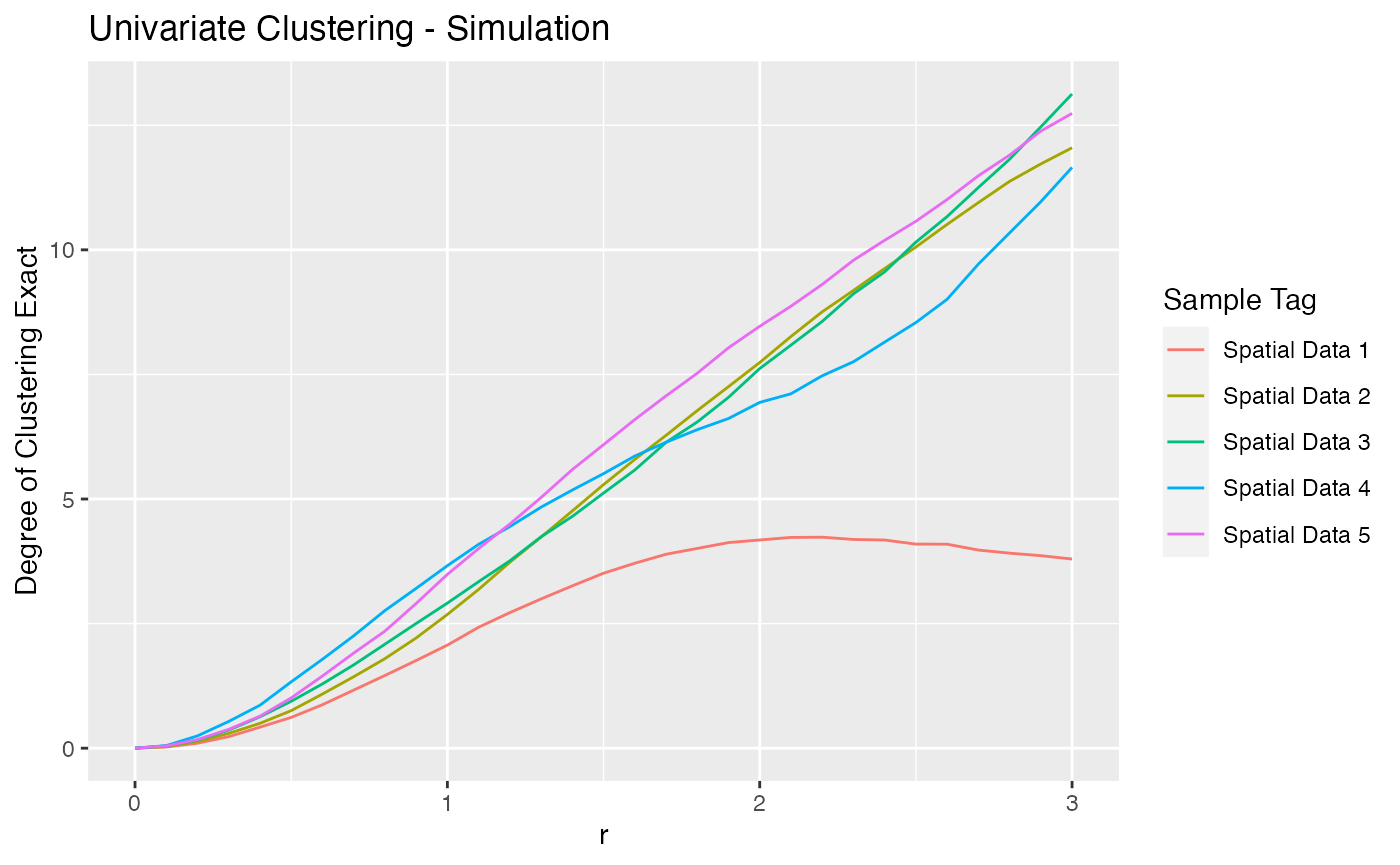
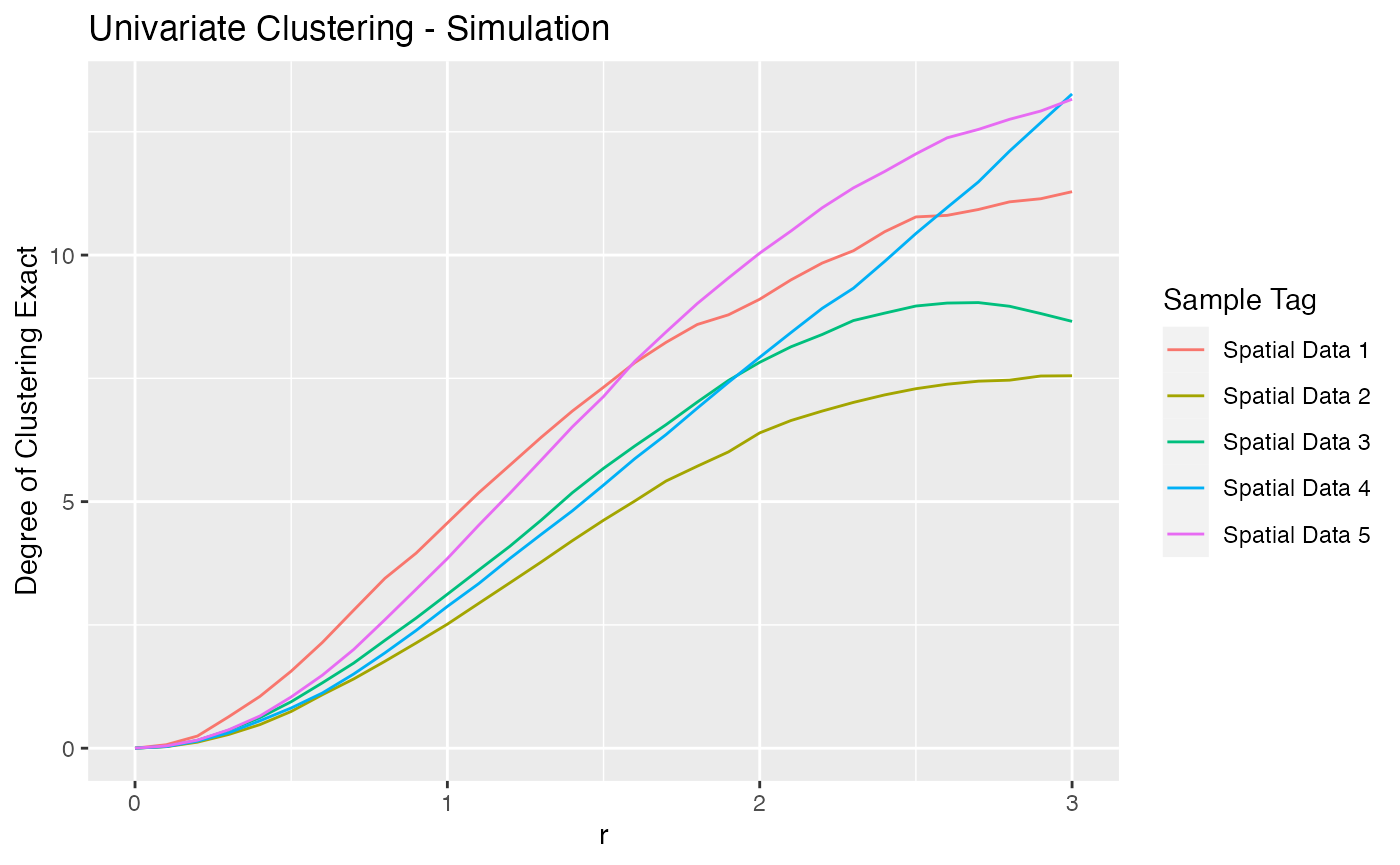
finished spatialTIME intro

diff --git a/docs/articles/a02_Using_with spatialTIME.html b/docs/articles/a02_Using_with spatialTIME.html
@@ -124,7 +124,7 @@ should be taken when using the observed Ripley’s <em>K</em> values.</p>
 <span>    <span class="co">#make tissues</span></span>
 <span><span class="va">sim_object</span> <span class="op">=</span> <span class="fu"><a href="../reference/GenerateTissue.html">GenerateTissue</a></span><span class="op">(</span><span class="va">sim_object</span>, density_heatmap <span class="op">=</span> <span class="cn">F</span><span class="op">)</span> <span class="op"><a href="../reference/pipe.html">%&gt;%</a></span></span>
 <span>    <span class="co">#create holes</span></span>
-<span>    <span class="fu"><a href="../reference/GenerateHoles.html">GenerateHoles</a></span><span class="op">(</span>density_heatmap <span class="op">=</span> <span class="cn">F</span><span class="op">)</span> <span class="op"><a href="../reference/pipe.html">%&gt;%</a></span></span>
+<span>    <span class="fu"><a href="../reference/GenerateHoles.html">GenerateHoles</a></span><span class="op">(</span>hole_prob <span class="op">=</span> <span class="fu"><a href="https://rdrr.io/r/base/c.html" class="external-link">c</a></span><span class="op">(</span><span class="fl">0.3</span>, <span class="fl">0.5</span><span class="op">)</span>, density_heatmap <span class="op">=</span> <span class="cn">F</span><span class="op">)</span> <span class="op"><a href="../reference/pipe.html">%&gt;%</a></span></span>
 <span>    <span class="co">#Create positive/negative cells</span></span>
 <span>    <span class="fu"><a href="../reference/GenerateCellPositivity.html">GenerateCellPositivity</a></span><span class="op">(</span>probs <span class="op">=</span> <span class="fu"><a href="https://rdrr.io/r/base/c.html" class="external-link">c</a></span><span class="op">(</span><span class="fl">0</span>, <span class="fl">0.9</span><span class="op">)</span><span class="op">)</span></span>
 <span><span class="co">#&gt; Computing tissue probability</span></span>
@@ -143,11 +143,11 @@ be split into a spatial list as well as a summary using
 <span><span class="co">#&gt; <span style="color: #949494;"># A tibble: 5 × 4</span></span></span>
 <span><span class="co">#&gt;   `Sample Tag`   `Total Cells` `Cell 1 Assignment` `% Cell 1 Assignment`</span></span>
 <span><span class="co">#&gt;   <span style="color: #949494; font-style: italic;">&lt;chr&gt;</span>                  <span style="color: #949494; font-style: italic;">&lt;int&gt;</span>               <span style="color: #949494; font-style: italic;">&lt;dbl&gt;</span>                 <span style="color: #949494; font-style: italic;">&lt;dbl&gt;</span></span></span>
-<span><span class="co">#&gt; <span style="color: #BCBCBC;">1</span> Spatial Data 1          <span style="text-decoration: underline;">2</span>495                 703                  28.2</span></span>
-<span><span class="co">#&gt; <span style="color: #BCBCBC;">2</span> Spatial Data 2          <span style="text-decoration: underline;">2</span>450                 684                  27.9</span></span>
-<span><span class="co">#&gt; <span style="color: #BCBCBC;">3</span> Spatial Data 3          <span style="text-decoration: underline;">2</span>500                 598                  23.9</span></span>
-<span><span class="co">#&gt; <span style="color: #BCBCBC;">4</span> Spatial Data 4          <span style="text-decoration: underline;">2</span>514                 426                  16.9</span></span>
-<span><span class="co">#&gt; <span style="color: #BCBCBC;">5</span> Spatial Data 5          <span style="text-decoration: underline;">2</span>486                 559                  22.5</span></span></code></pre></div>
+<span><span class="co">#&gt; <span style="color: #BCBCBC;">1</span> Spatial Data 1          <span style="text-decoration: underline;">2</span>495                 342                  13.7</span></span>
+<span><span class="co">#&gt; <span style="color: #BCBCBC;">2</span> Spatial Data 2          <span style="text-decoration: underline;">2</span>450                 624                  25.5</span></span>
+<span><span class="co">#&gt; <span style="color: #BCBCBC;">3</span> Spatial Data 3          <span style="text-decoration: underline;">2</span>500                 638                  25.5</span></span>
+<span><span class="co">#&gt; <span style="color: #BCBCBC;">4</span> Spatial Data 4          <span style="text-decoration: underline;">2</span>514                 622                  24.7</span></span>
+<span><span class="co">#&gt; <span style="color: #BCBCBC;">5</span> Spatial Data 5          <span style="text-decoration: underline;">2</span>486                 558                  22.4</span></span></code></pre></div>
 </div>
 <div class="section level3">
 <h3 id="using-with-spatialtime">Using with <code>spatialTIME</code><a class="anchor" aria-label="anchor" href="#using-with-spatialtime"></a>
@@ -209,6 +209,69 @@ units and visualize the results.</p>
 <span>  <span class="fu"><a href="https://ggplot2.tidyverse.org/reference/geom_path.html" class="external-link">geom_line</a></span><span class="op">(</span><span class="fu"><a href="https://ggplot2.tidyverse.org/reference/aes.html" class="external-link">aes</a></span><span class="op">(</span>x <span class="op">=</span> <span class="va">r</span>, y <span class="op">=</span> <span class="va">`Degree of Clustering Exact`</span>, color <span class="op">=</span> <span class="va">`Sample Tag`</span><span class="op">)</span><span class="op">)</span> <span class="op">+</span></span>
 <span>  <span class="fu"><a href="https://ggplot2.tidyverse.org/reference/labs.html" class="external-link">labs</a></span><span class="op">(</span>title <span class="op">=</span> <span class="st">"Univariate Clustering - Simulation"</span><span class="op">)</span></span></code></pre></div>
 <p><img src="a02_Using_with%20spatialTIME_files/figure-html/unnamed-chunk-8-1.png" width="700"></p>
+<p>Up until now, we have been using the all simulated cells. We can
+filter the spatial_list down to create another mIF object that doesn’t
+have the cells belonging to the class of “hole”
+(<code>Hole Assignment</code> == “Keep”). For now, sub-setting to only
+Tissue 1 or Tissue 2 will be left alone. Let’s create this mIF and run
+Ripley’s K on it.</p>
+<div class="sourceCode" id="cb11"><pre class="downlit sourceCode r">
+<code class="sourceCode R"><span><span class="va">mif_holes</span> <span class="op">=</span> <span class="fu"><a href="https://rdrr.io/pkg/spatialTIME/man/create_mif.html" class="external-link">create_mif</a></span><span class="op">(</span>clinical_data <span class="op">=</span> <span class="va">clinical</span>,</span>
+<span>                 sample_data <span class="op">=</span> <span class="va">summary_df</span>,</span>
+<span>                 spatial_list <span class="op">=</span> <span class="fu"><a href="https://rdrr.io/r/base/lapply.html" class="external-link">lapply</a></span><span class="op">(</span><span class="va">spatial_list</span>, <span class="kw">function</span><span class="op">(</span><span class="va">spat</span><span class="op">)</span><span class="op">{</span></span>
+<span>                   <span class="va">spat</span> <span class="op"><a href="../reference/pipe.html">%&gt;%</a></span></span>
+<span>                     <span class="fu">dplyr</span><span class="fu">::</span><span class="fu"><a href="https://dplyr.tidyverse.org/reference/filter.html" class="external-link">filter</a></span><span class="op">(</span><span class="va">`Hole Assignment`</span> <span class="op">==</span> <span class="st">"Keep"</span><span class="op">)</span></span>
+<span>                 <span class="op">}</span><span class="op">)</span>,</span>
+<span>                 patient_id <span class="op">=</span> <span class="st">"Patient ID"</span>,</span>
+<span>                 sample_id <span class="op">=</span> <span class="st">"Sample Tag"</span><span class="op">)</span></span>
+<span><span class="va">mif_holes</span> <span class="op">=</span> <span class="fu"><a href="https://rdrr.io/pkg/spatialTIME/man/ripleys_k.html" class="external-link">ripleys_k</a></span><span class="op">(</span>mif <span class="op">=</span> <span class="va">mif_holes</span>, mnames <span class="op">=</span> <span class="st">"Cell 1 Assignment"</span>, r_range <span class="op">=</span> <span class="fu"><a href="https://rdrr.io/r/base/seq.html" class="external-link">seq</a></span><span class="op">(</span><span class="fl">0</span>, <span class="fl">3</span>, <span class="fl">0.1</span><span class="op">)</span>, </span>
+<span>                permute <span class="op">=</span> <span class="cn">FALSE</span>, edge_correction <span class="op">=</span> <span class="st">"translation"</span>, workers <span class="op">=</span> <span class="fl">1</span>,</span>
+<span>                xloc <span class="op">=</span> <span class="st">"x"</span>, yloc <span class="op">=</span> <span class="st">"y"</span><span class="op">)</span></span>
+<span><span class="co">#&gt; Joining with `by = join_by(r)`</span></span>
+<span><span class="co">#&gt; Joining with `by = join_by(r)`</span></span>
+<span><span class="co">#&gt; Joining with `by = join_by(r)`</span></span>
+<span><span class="co">#&gt; Joining with `by = join_by(r)`</span></span>
+<span><span class="co">#&gt; Joining with `by = join_by(r)`</span></span></code></pre></div>
+<p>To see the importance of using the exact CSR approach (or
+permutation) when there are holes on samples, first look at the spatial
+plots to see how much the holes are impacting the distribution of the
+points.</p>
+<div class="sourceCode" id="cb12"><pre class="downlit sourceCode r">
+<code class="sourceCode R"><span><span class="va">mif_holes</span><span class="op">$</span><span class="va">spatial</span> <span class="op"><a href="../reference/pipe.html">%&gt;%</a></span></span>
+<span>  <span class="fu"><a href="https://rdrr.io/r/base/do.call.html" class="external-link">do.call</a></span><span class="op">(</span><span class="fu">dplyr</span><span class="fu">::</span><span class="va"><a href="https://dplyr.tidyverse.org/reference/bind_rows.html" class="external-link">bind_rows</a></span>, <span class="va">.</span><span class="op">)</span> <span class="op"><a href="../reference/pipe.html">%&gt;%</a></span></span>
+<span>  <span class="fu"><a href="https://ggplot2.tidyverse.org/reference/ggplot.html" class="external-link">ggplot</a></span><span class="op">(</span><span class="op">)</span> <span class="op">+</span></span>
+<span>  <span class="fu"><a href="https://ggplot2.tidyverse.org/reference/geom_point.html" class="external-link">geom_point</a></span><span class="op">(</span><span class="fu"><a href="https://ggplot2.tidyverse.org/reference/aes.html" class="external-link">aes</a></span><span class="op">(</span>x <span class="op">=</span> <span class="va">x</span>, y <span class="op">=</span> <span class="va">y</span>, color <span class="op">=</span> <span class="fu"><a href="https://rdrr.io/r/base/factor.html" class="external-link">as.factor</a></span><span class="op">(</span><span class="va">`Cell 1 Assignment`</span><span class="op">)</span><span class="op">)</span><span class="op">)</span> <span class="op">+</span></span>
+<span>  <span class="fu"><a href="https://ggplot2.tidyverse.org/reference/facet_wrap.html" class="external-link">facet_wrap</a></span><span class="op">(</span><span class="op">~</span><span class="va">`Sample Tag`</span><span class="op">)</span></span></code></pre></div>
+<p><img src="a02_Using_with%20spatialTIME_files/figure-html/unnamed-chunk-10-1.png" width="700"></p>
+<p>The regions with holes are rather small so wouldn’t</p>
+<div class="sourceCode" id="cb13"><pre class="downlit sourceCode r">
+<code class="sourceCode R"><span><span class="va">dat</span> <span class="op">=</span> <span class="fu"><a href="https://rdrr.io/r/base/do.call.html" class="external-link">do.call</a></span><span class="op">(</span><span class="fu">dplyr</span><span class="fu">::</span><span class="va"><a href="https://dplyr.tidyverse.org/reference/bind_rows.html" class="external-link">bind_rows</a></span>, <span class="va">mif_holes</span><span class="op">$</span><span class="va">derived</span><span class="op">$</span><span class="va">univariate_Count</span><span class="op">)</span></span>
+<span><span class="va">dat</span> <span class="op"><a href="../reference/pipe.html">%&gt;%</a></span></span>
+<span>  <span class="fu">dplyr</span><span class="fu">::</span><span class="fu"><a href="https://dplyr.tidyverse.org/reference/mutate.html" class="external-link">mutate</a></span><span class="op">(</span>`Exact-Theo` <span class="op">=</span> <span class="va">`Exact CSR`</span> <span class="op">-</span> <span class="va">`Theoretical CSR`</span><span class="op">)</span> <span class="op"><a href="../reference/pipe.html">%&gt;%</a></span></span>
+<span>  <span class="fu"><a href="https://ggplot2.tidyverse.org/reference/ggplot.html" class="external-link">ggplot</a></span><span class="op">(</span><span class="op">)</span> <span class="op">+</span></span>
+<span>  <span class="fu"><a href="https://ggplot2.tidyverse.org/reference/geom_density.html" class="external-link">geom_density</a></span><span class="op">(</span><span class="fu"><a href="https://ggplot2.tidyverse.org/reference/aes.html" class="external-link">aes</a></span><span class="op">(</span>x <span class="op">=</span> <span class="va">`Exact-Theo`</span>, fill <span class="op">=</span> <span class="va">`Sample Tag`</span><span class="op">)</span>, alpha <span class="op">=</span> <span class="fl">0.2</span>, adjust <span class="op">=</span> <span class="fl">0.2</span><span class="op">)</span></span></code></pre></div>
+<p><img src="a02_Using_with%20spatialTIME_files/figure-html/unnamed-chunk-11-1.png" width="700"></p>
+<p>This clearly shows that the exact <em>typically</em> has larger
+values than those of the theoretical (positive values). These can be
+visualized by calculating the frequency of <em>r</em>s that have an
+exact CSR measurement greater than the theoretical CSR estimate,
+indicating the the theoretical is underestimating the CSR of the
+cores.</p>
+<div class="sourceCode" id="cb14"><pre class="downlit sourceCode r">
+<code class="sourceCode R"><span><span class="va">dat</span> <span class="op"><a href="../reference/pipe.html">%&gt;%</a></span></span>
+<span>    <span class="fu">dplyr</span><span class="fu">::</span><span class="fu"><a href="https://dplyr.tidyverse.org/reference/mutate.html" class="external-link">mutate</a></span><span class="op">(</span>`Exact-Theo` <span class="op">=</span> <span class="va">`Exact CSR`</span> <span class="op">-</span> <span class="va">`Theoretical CSR`</span><span class="op">)</span> <span class="op"><a href="../reference/pipe.html">%&gt;%</a></span></span>
+<span>    <span class="fu">dplyr</span><span class="fu">::</span><span class="fu"><a href="https://dplyr.tidyverse.org/reference/group_by.html" class="external-link">group_by</a></span><span class="op">(</span><span class="va">`Sample Tag`</span><span class="op">)</span> <span class="op"><a href="../reference/pipe.html">%&gt;%</a></span></span>
+<span>    <span class="fu">dplyr</span><span class="fu">::</span><span class="fu"><a href="https://dplyr.tidyverse.org/reference/mutate.html" class="external-link">mutate</a></span><span class="op">(</span>prop <span class="op">=</span> <span class="fu"><a href="https://rdrr.io/r/base/ifelse.html" class="external-link">ifelse</a></span><span class="op">(</span><span class="va">`Exact-Theo`</span> <span class="op">&gt;</span> <span class="fl">0</span>, <span class="fl">1</span><span class="op">/</span><span class="fu">dplyr</span><span class="fu">::</span><span class="fu"><a href="https://dplyr.tidyverse.org/reference/context.html" class="external-link">n</a></span><span class="op">(</span><span class="op">)</span>, <span class="fl">0</span><span class="op">)</span><span class="op">)</span> <span class="op"><a href="../reference/pipe.html">%&gt;%</a></span></span>
+<span>    <span class="fu">dplyr</span><span class="fu">::</span><span class="fu"><a href="https://dplyr.tidyverse.org/reference/select.html" class="external-link">select</a></span><span class="op">(</span><span class="va">`Sample Tag`</span>, <span class="va">r</span>, <span class="va">`Exact-Theo`</span>, <span class="va">prop</span><span class="op">)</span> <span class="op"><a href="../reference/pipe.html">%&gt;%</a></span></span>
+<span>    <span class="fu">dplyr</span><span class="fu">::</span><span class="fu"><a href="https://dplyr.tidyverse.org/reference/summarise.html" class="external-link">summarise</a></span><span class="op">(</span>`Total Fraction` <span class="op">=</span> <span class="fu"><a href="https://rdrr.io/r/base/sum.html" class="external-link">sum</a></span><span class="op">(</span><span class="va">prop</span><span class="op">)</span><span class="op">)</span></span>
+<span><span class="co">#&gt; <span style="color: #949494;"># A tibble: 5 × 2</span></span></span>
+<span><span class="co">#&gt;   `Sample Tag`   `Total Fraction`</span></span>
+<span><span class="co">#&gt;   <span style="color: #949494; font-style: italic;">&lt;chr&gt;</span>                     <span style="color: #949494; font-style: italic;">&lt;dbl&gt;</span></span></span>
+<span><span class="co">#&gt; <span style="color: #BCBCBC;">1</span> Spatial Data 1            0.968</span></span>
+<span><span class="co">#&gt; <span style="color: #BCBCBC;">2</span> Spatial Data 2            0.419</span></span>
+<span><span class="co">#&gt; <span style="color: #BCBCBC;">3</span> Spatial Data 3            0.613</span></span>
+<span><span class="co">#&gt; <span style="color: #BCBCBC;">4</span> Spatial Data 4            0.742</span></span>
+<span><span class="co">#&gt; <span style="color: #BCBCBC;">5</span> Spatial Data 5            0.839</span></span></code></pre></div>
 </div>
 </div>
   </main><aside class="col-md-3"><nav id="toc"><h2>On this page</h2>
